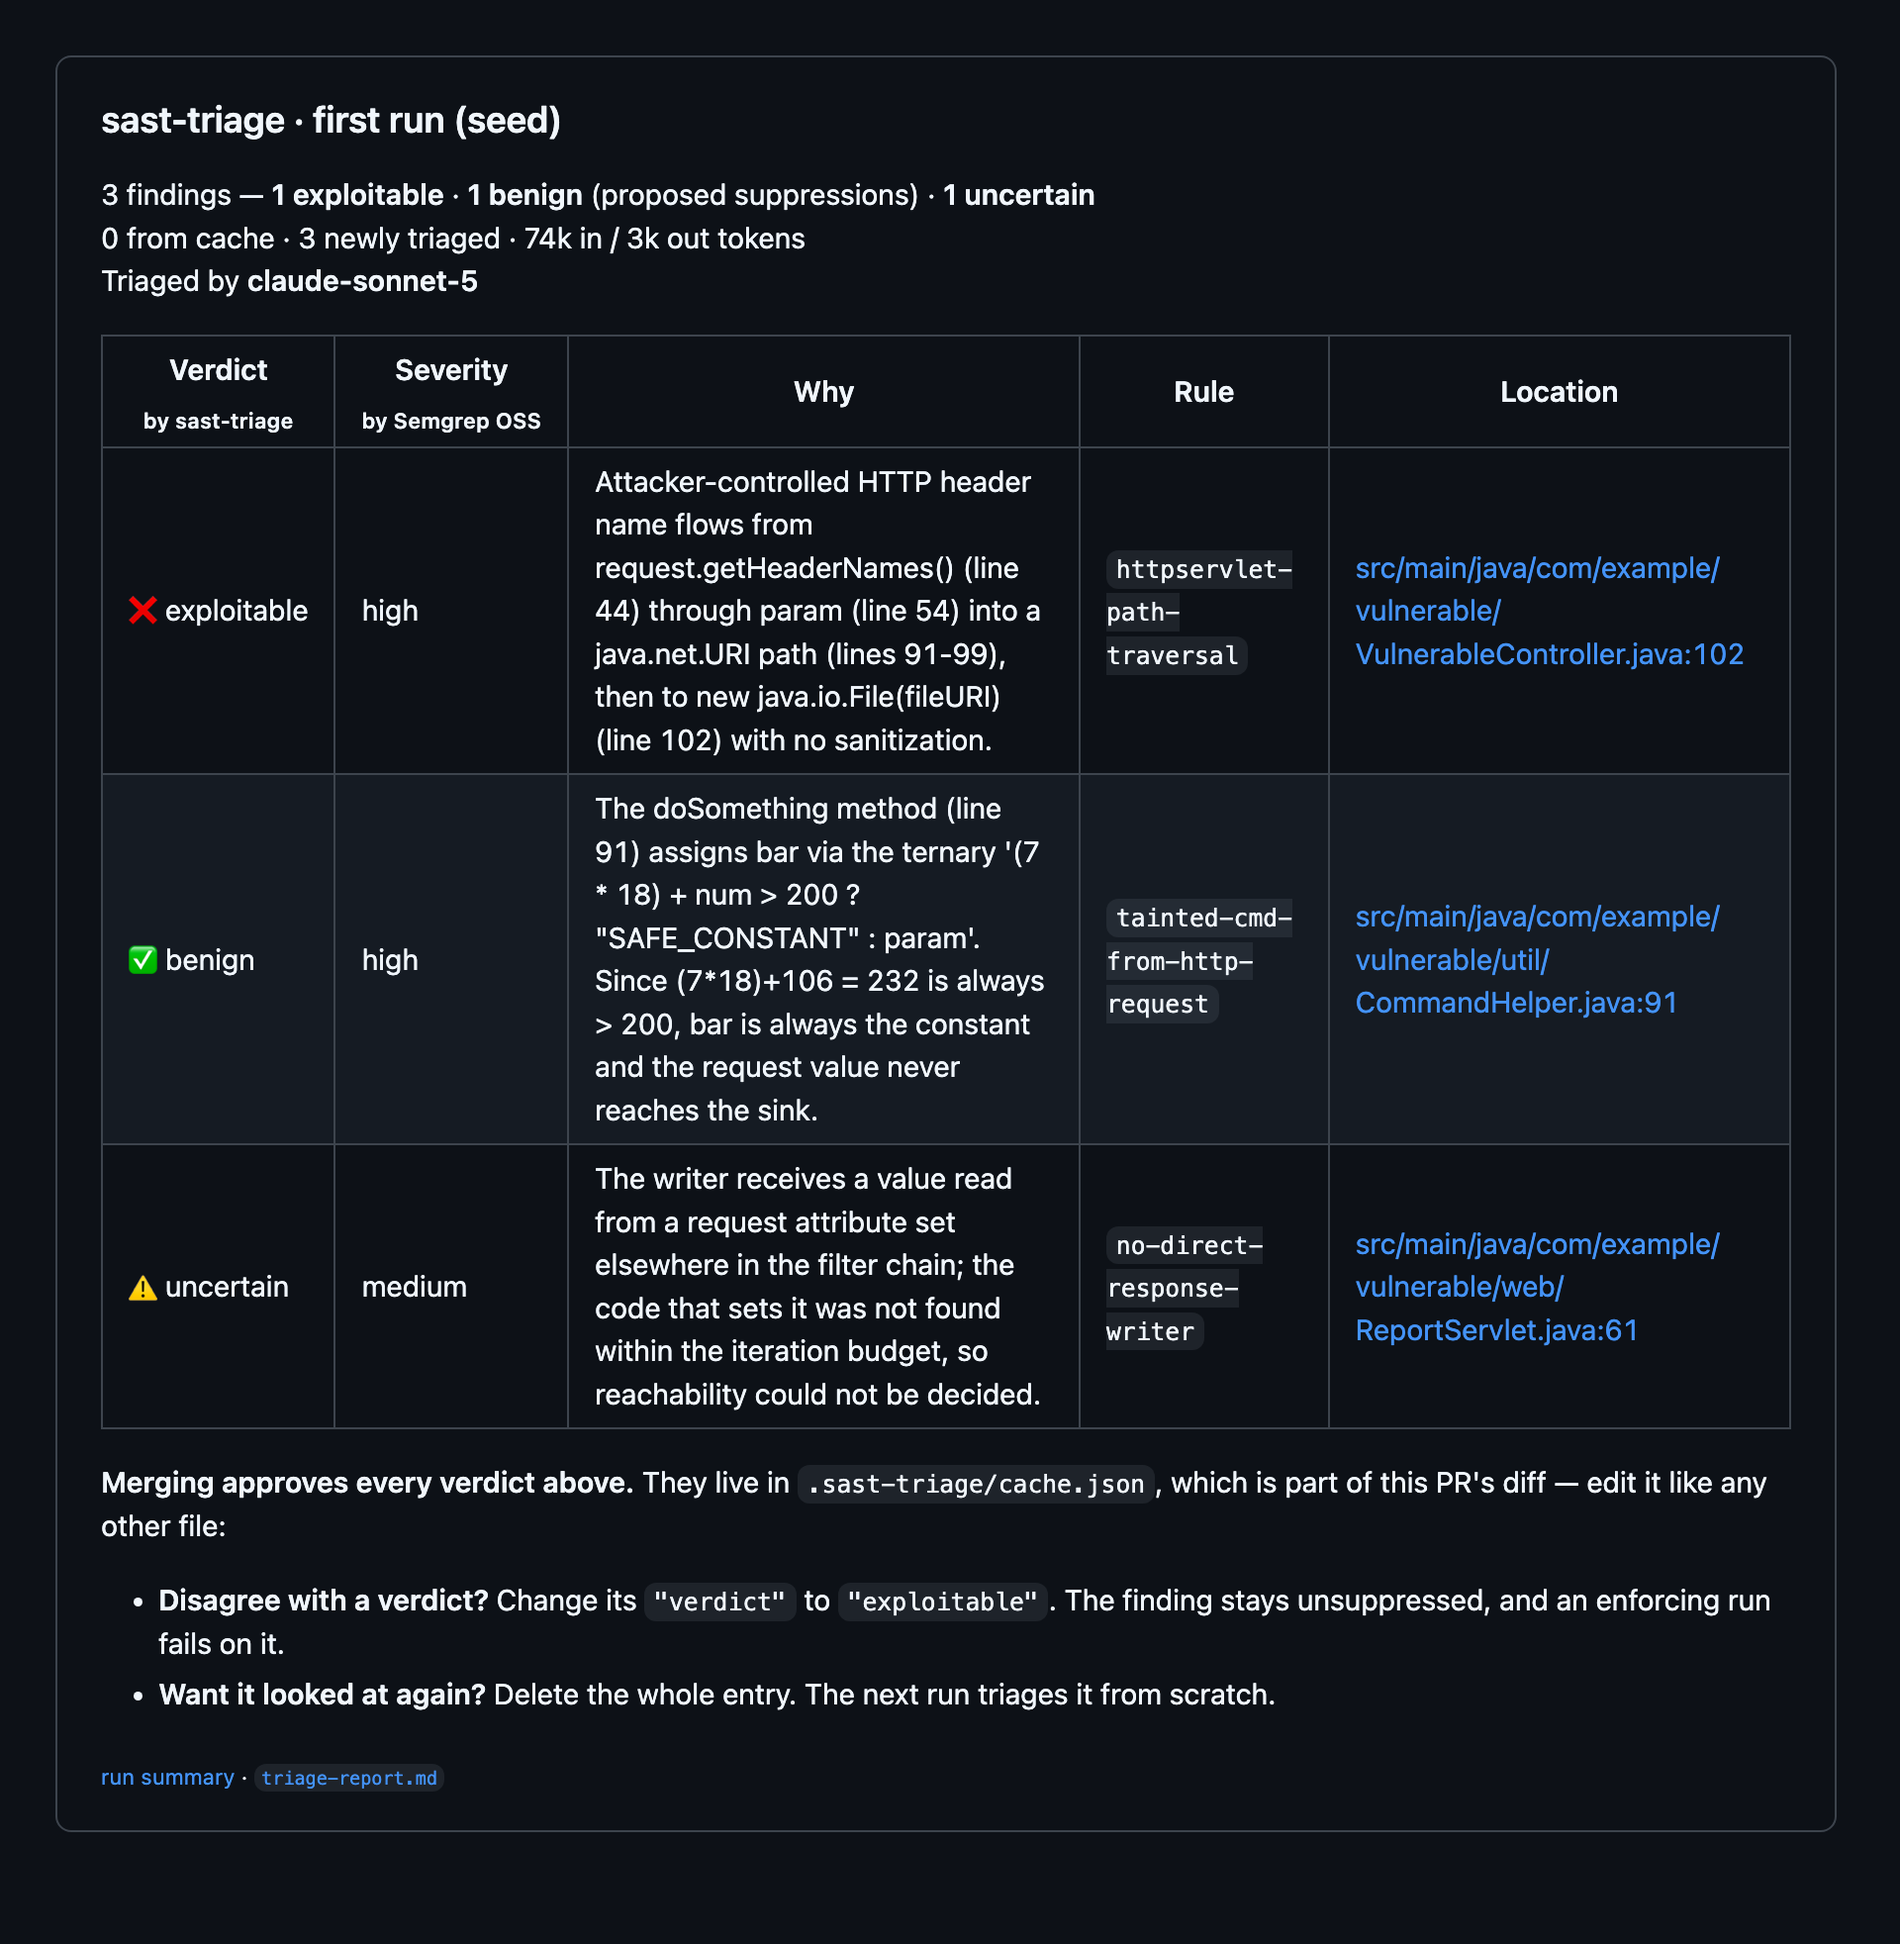
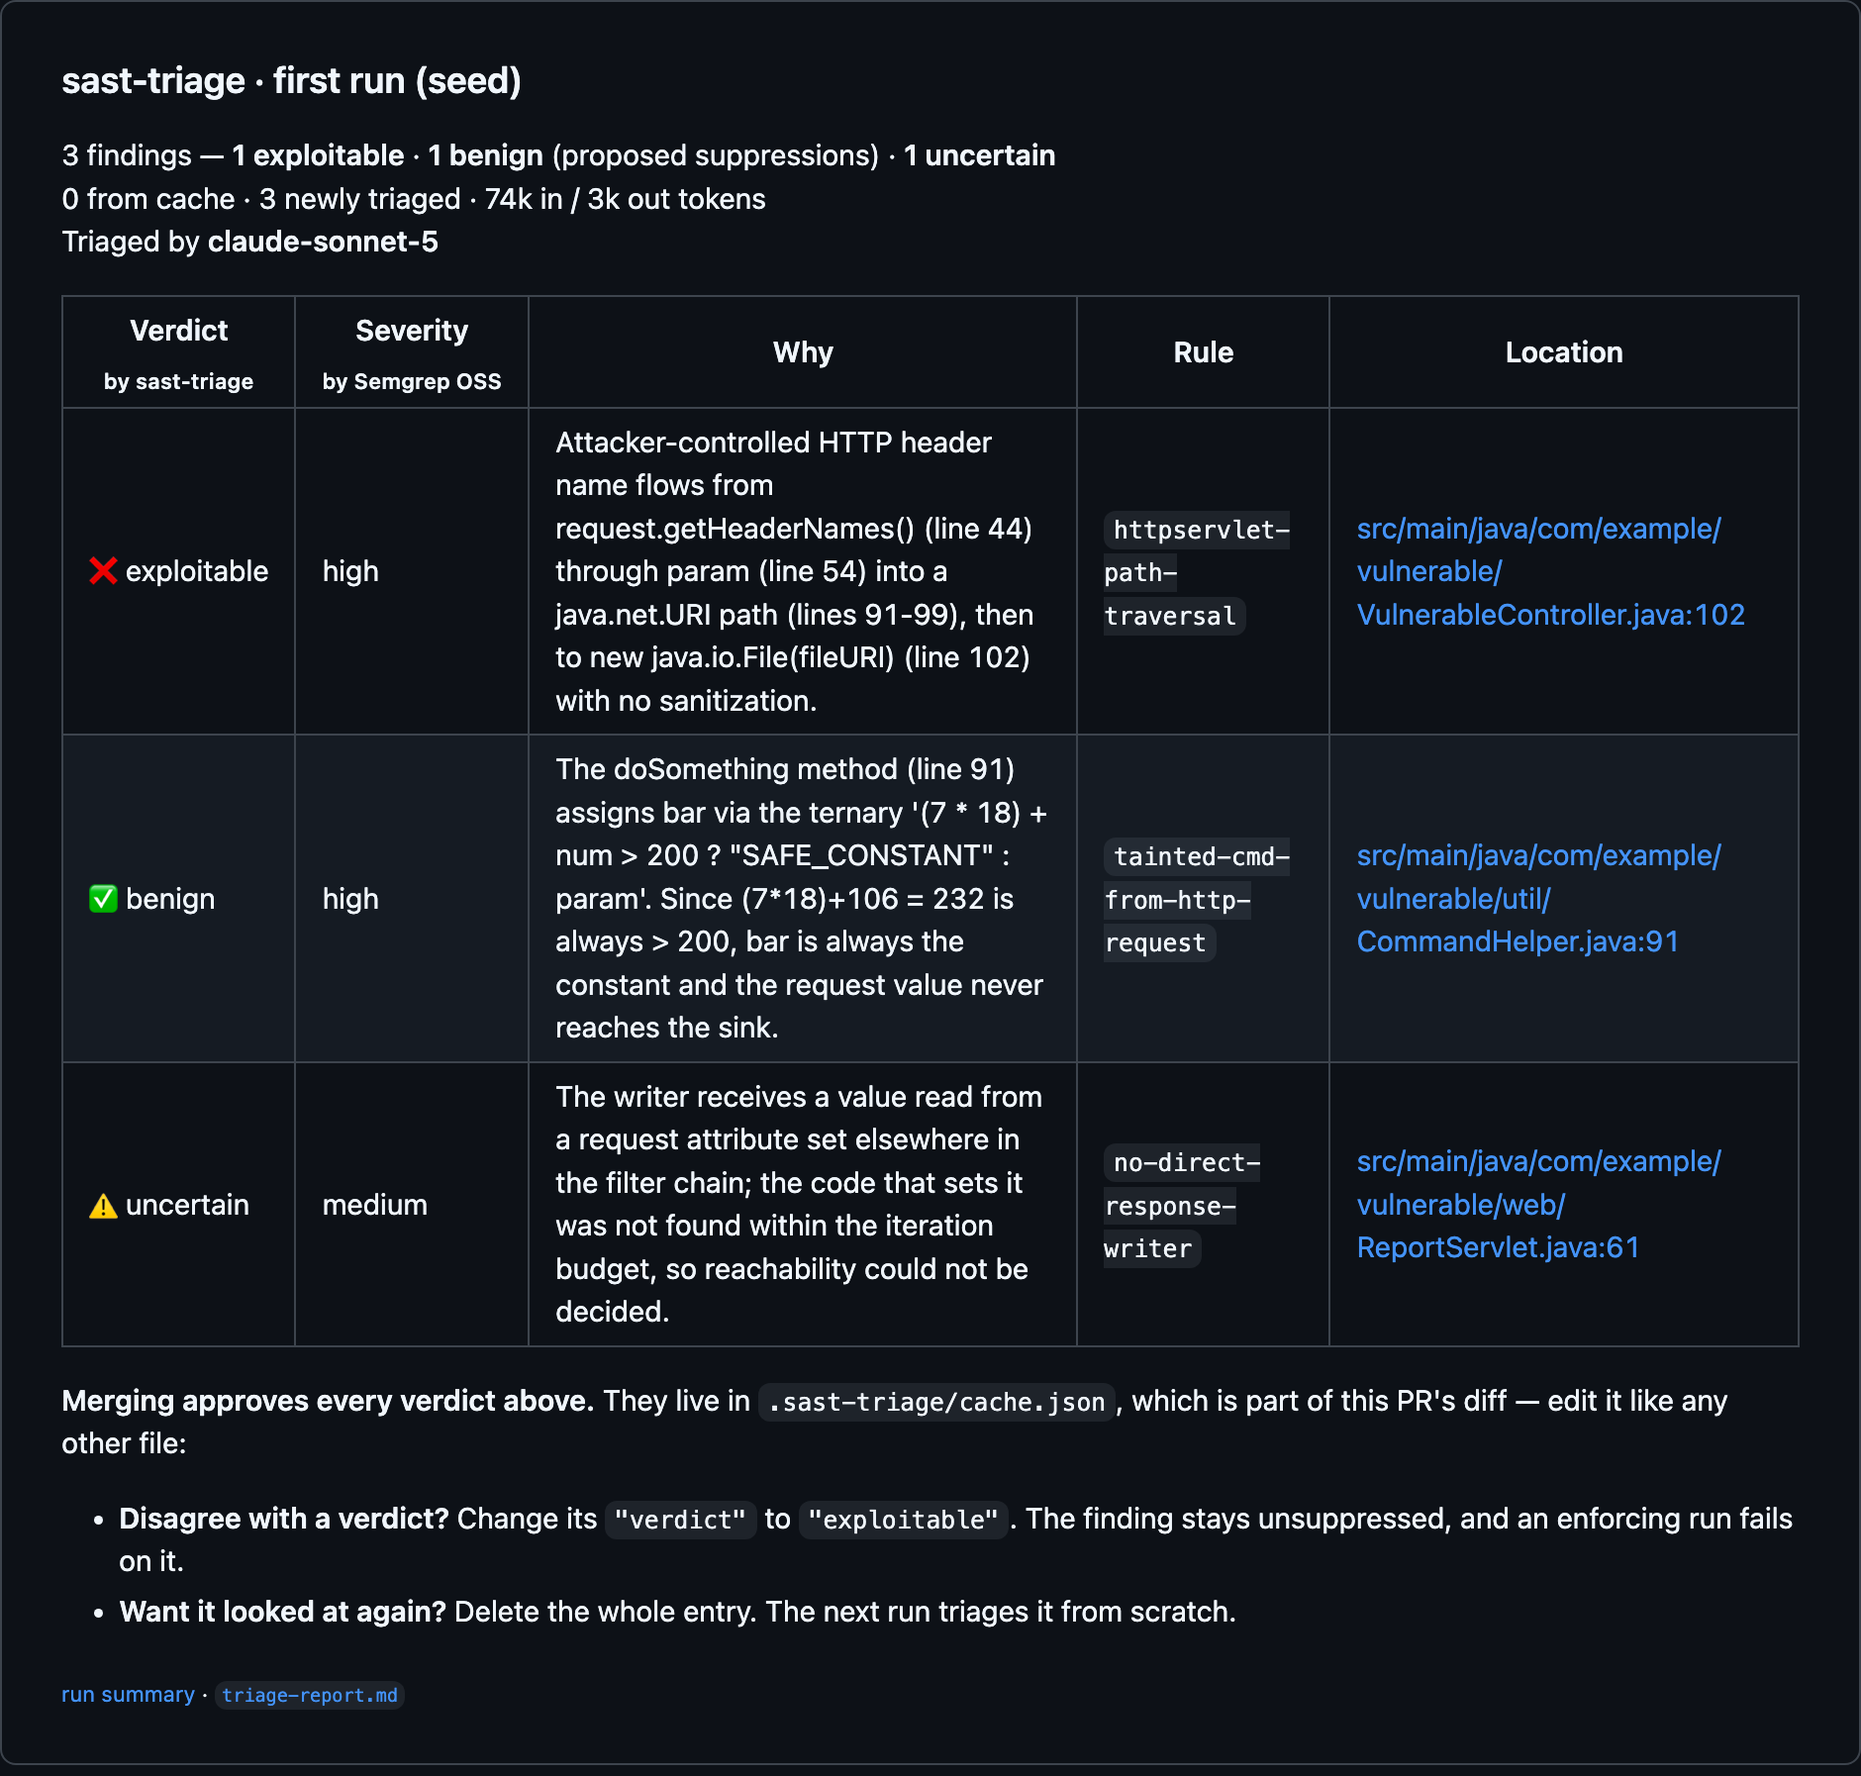
fix: remove outdated pull request description from README and update summary images

diff --git a/README.md b/README.md
@@ -14,8 +14,6 @@ An LLM agent reads the code behind each finding; only `exploitable` verdicts —
   <img alt="The pull request sast-triage opens on its first run: a table of three findings — one exploitable, one benign, one uncertain — each with the reason the model gave, the rule, and a link to the flagged line" src="docs/images/pr-summary.png" width="900">
 </picture>
 
-_The pull request it opens on the first run — every verdict with the reasoning behind it, above a `.sast-triage/cache.json` diff you approve by merging. Disagree with one? Edit the entry, or delete it and the next run re-triages it._
-
 ## How it works
 
 ```mermaid
